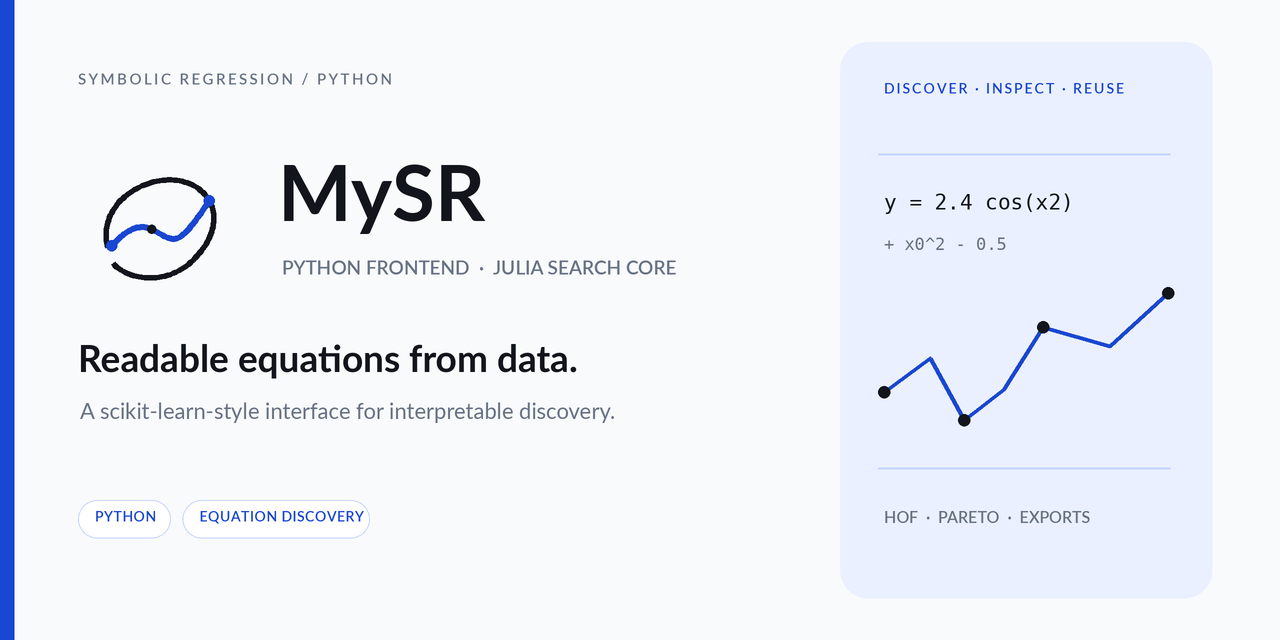
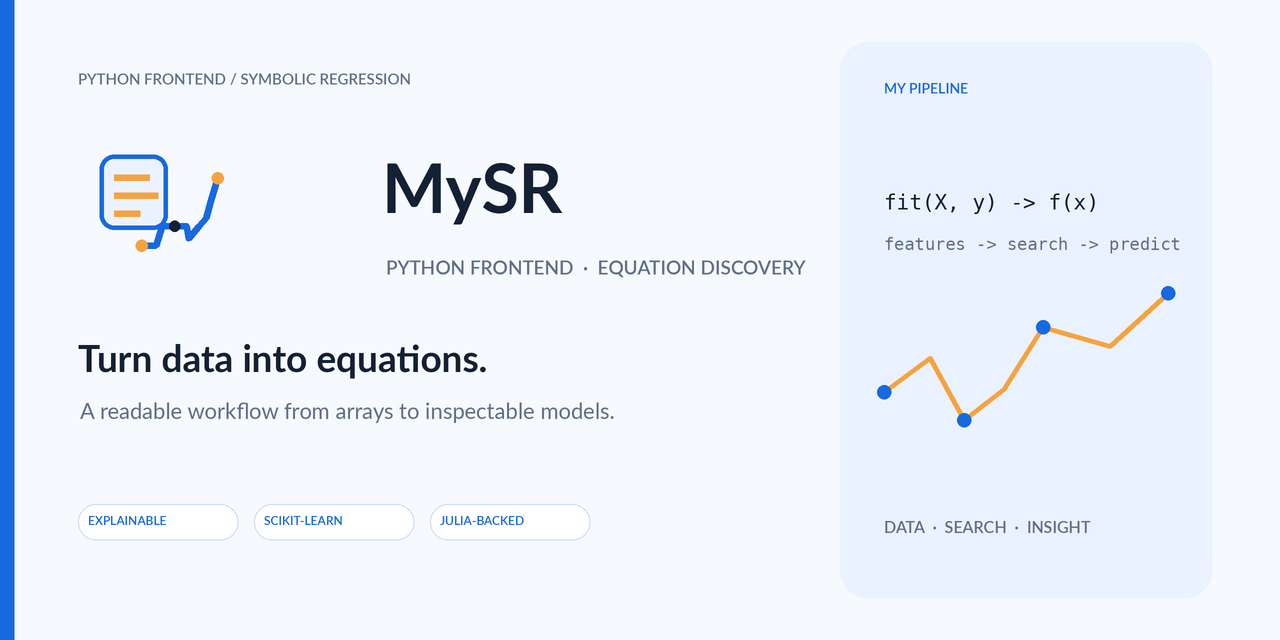
docs: separate MySR visual identity

diff --git a/DEVELOPMENT_LOG.md b/DEVELOPMENT_LOG.md
@@ -569,3 +569,10 @@
 - 变更：新增 `child_refinement`、`epsilon`、`epsilon_mode` 的 Python 参数、校验、文档、参数分组与 bridge 回归；bridge 改用 canonical `populations`/`population_size`，并保留默认值下的可选关键字兼容路径；`tournament_selection_n` 提前执行严格小于 `population_size` 校验。
 - 验证：MySRCore 完整 `Pkg.test("MySRCore"; coverage=false)` 通过；MySR Python 契约/量纲/迁移/survival/uncertainty focused suite `43 passed`；新增 bridge/survival suite `15 passed`；全量 Python 测试收集 `432 tests collected`；目标文件 Ruff、compileall 与 `git diff --check` 通过。
 - 限制：完整 Python suite 未完成；`test_main.py` 中既有 plugin 测试在临时 project 使用 `using SymbolicRegression` 失败，因为当前 fork 暴露的是 `MySRCore.SymbolicRegression`，不属于本次变更；matched P/M benchmark 未运行。
+
+## 2026-09-27 — Separate MySR visual identity assets
+
+- Updated the public presentation layer only: MySR now uses a cobalt/amber data-to-equation identity for the Python frontend.
+- Added `mysr-mark.svg`, `mysr-lockup.svg`, three reusable English icons (`mysr-icon-data.svg`, `mysr-icon-equation.svg`, `mysr-icon-pipeline.svg`), refreshed social/result previews, and a color-coded architecture diagram.
+- Added the icon row to the README and documented the palette and asset roles in `assets/README.md`.
+- Synthetic result previews remain explicitly marked as non-benchmark illustrations; no runtime or API contract changed.

diff --git a/assets/README.md b/assets/README.md
@@ -1,9 +1,13 @@
 # MySR page assets
 
-- `mysr-mark.svg` and `mysr-lockup.svg` are the shared MySR identity assets.
+- `mysr-mark.svg` and `mysr-lockup.svg` are the MySR Python frontend identity assets.
+- `mysr-icon-data.svg`, `mysr-icon-equation.svg`, and `mysr-icon-pipeline.svg` are the reusable workflow icons shown in the README.
 - `social-preview.png` is a 1280×640 GitHub social-preview candidate.
 - `social-preview.svg` is the editable vector source for that preview.
 - `result-preview.png` and `result-preview.svg` are illustrative README result views.
 
-The social-preview files are presentation assets; they do not contain benchmark
-results or runtime-generated data.
+The MySR visual system uses cobalt (`#1769E0`) for the Python-facing workflow,
+amber (`#F4A340`) for data and insight accents, and deep navy for readable text.
+All visible copy in these assets is English. The social-preview files are
+presentation assets; they do not contain benchmark results or runtime-generated
+data.

diff --git a/README.md b/README.md
@@ -101,6 +101,14 @@ The figure shows the shape of an inspectable result: equations remain visible
 alongside loss and complexity so a user can choose a point on the frontier.
 The values are synthetic and are not benchmark evidence.
 
+<div align="center">
+  <img src="assets/mysr-icon-data.svg" alt="MySR data intake" width="108">
+  <img src="assets/mysr-icon-equation.svg" alt="MySR equation inspection" width="108">
+  <img src="assets/mysr-icon-pipeline.svg" alt="MySR reproducible pipeline" width="108">
+</div>
+
+<p align="center"><sub>Data intake&nbsp;&nbsp;·&nbsp;&nbsp;Equation inspection&nbsp;&nbsp;·&nbsp;&nbsp;Reproducible workflow</sub></p>
+
 ## Capabilities
 
 | Area | What MySR provides |
